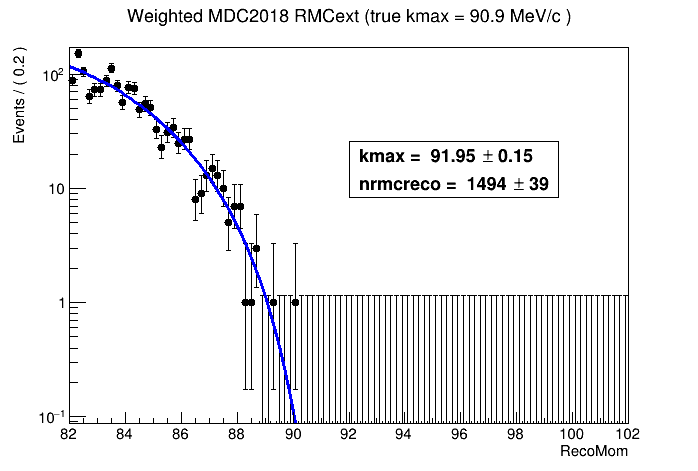
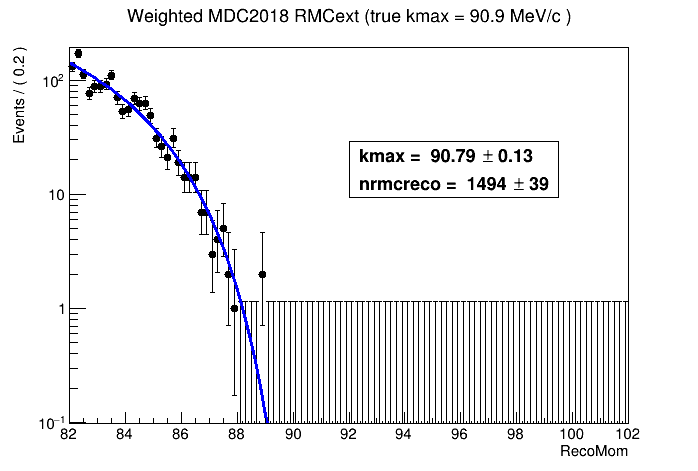
909figures

diff --git a/code/FitRMC.C b/code/FitRMC.C
@@ -102,7 +102,7 @@ void FitRMC() {
   // TFile* f = new TFile("RMCSpectra.root");
   // TH1F* wthist = (TH1F*) f->Get("hist89");
   // RooDataHist data("data","RMC", x, wthist);
-  double kmaxtrue = 91.9;
+  double kmaxtrue = 90.9;
   // Random Sampling of RMC Positron spectrum
   TFile* g = new TFile("RMCTrkQual.root");
   TTree* tree = (TTree*) g->Get("NewTrkQual");
@@ -110,14 +110,14 @@ void FitRMC() {
   // tree->Print();
 
   TRandom randg;
-  double nExpected = 2500; // average number of reco rmc positron events >82 MeV. (depends on kmax)
+  double nExpected = 1500; // average number of reco rmc positron events >82 MeV. (depends on kmax)
   double nSample = nExpected+randg.Gaus()*sqrt(nExpected); // Poisson error on number of expected events
 
   ofstream myfile;
   const char *filename ="temprecomom.ssv"; // to store sampled dataopints temporarily
-  myfile.open(filename,ios::out);
+  myfile.open(filename,ios::out); // Only because RooDataSet.add was not working 
 
-  HistFill(tree,0,nSample,"rmc919",myfile);
+  HistFill(tree,0,nSample,"rmc909",myfile);
   myfile.close();
   // RooDataHist data("data","rmc",x,wthist);
 
